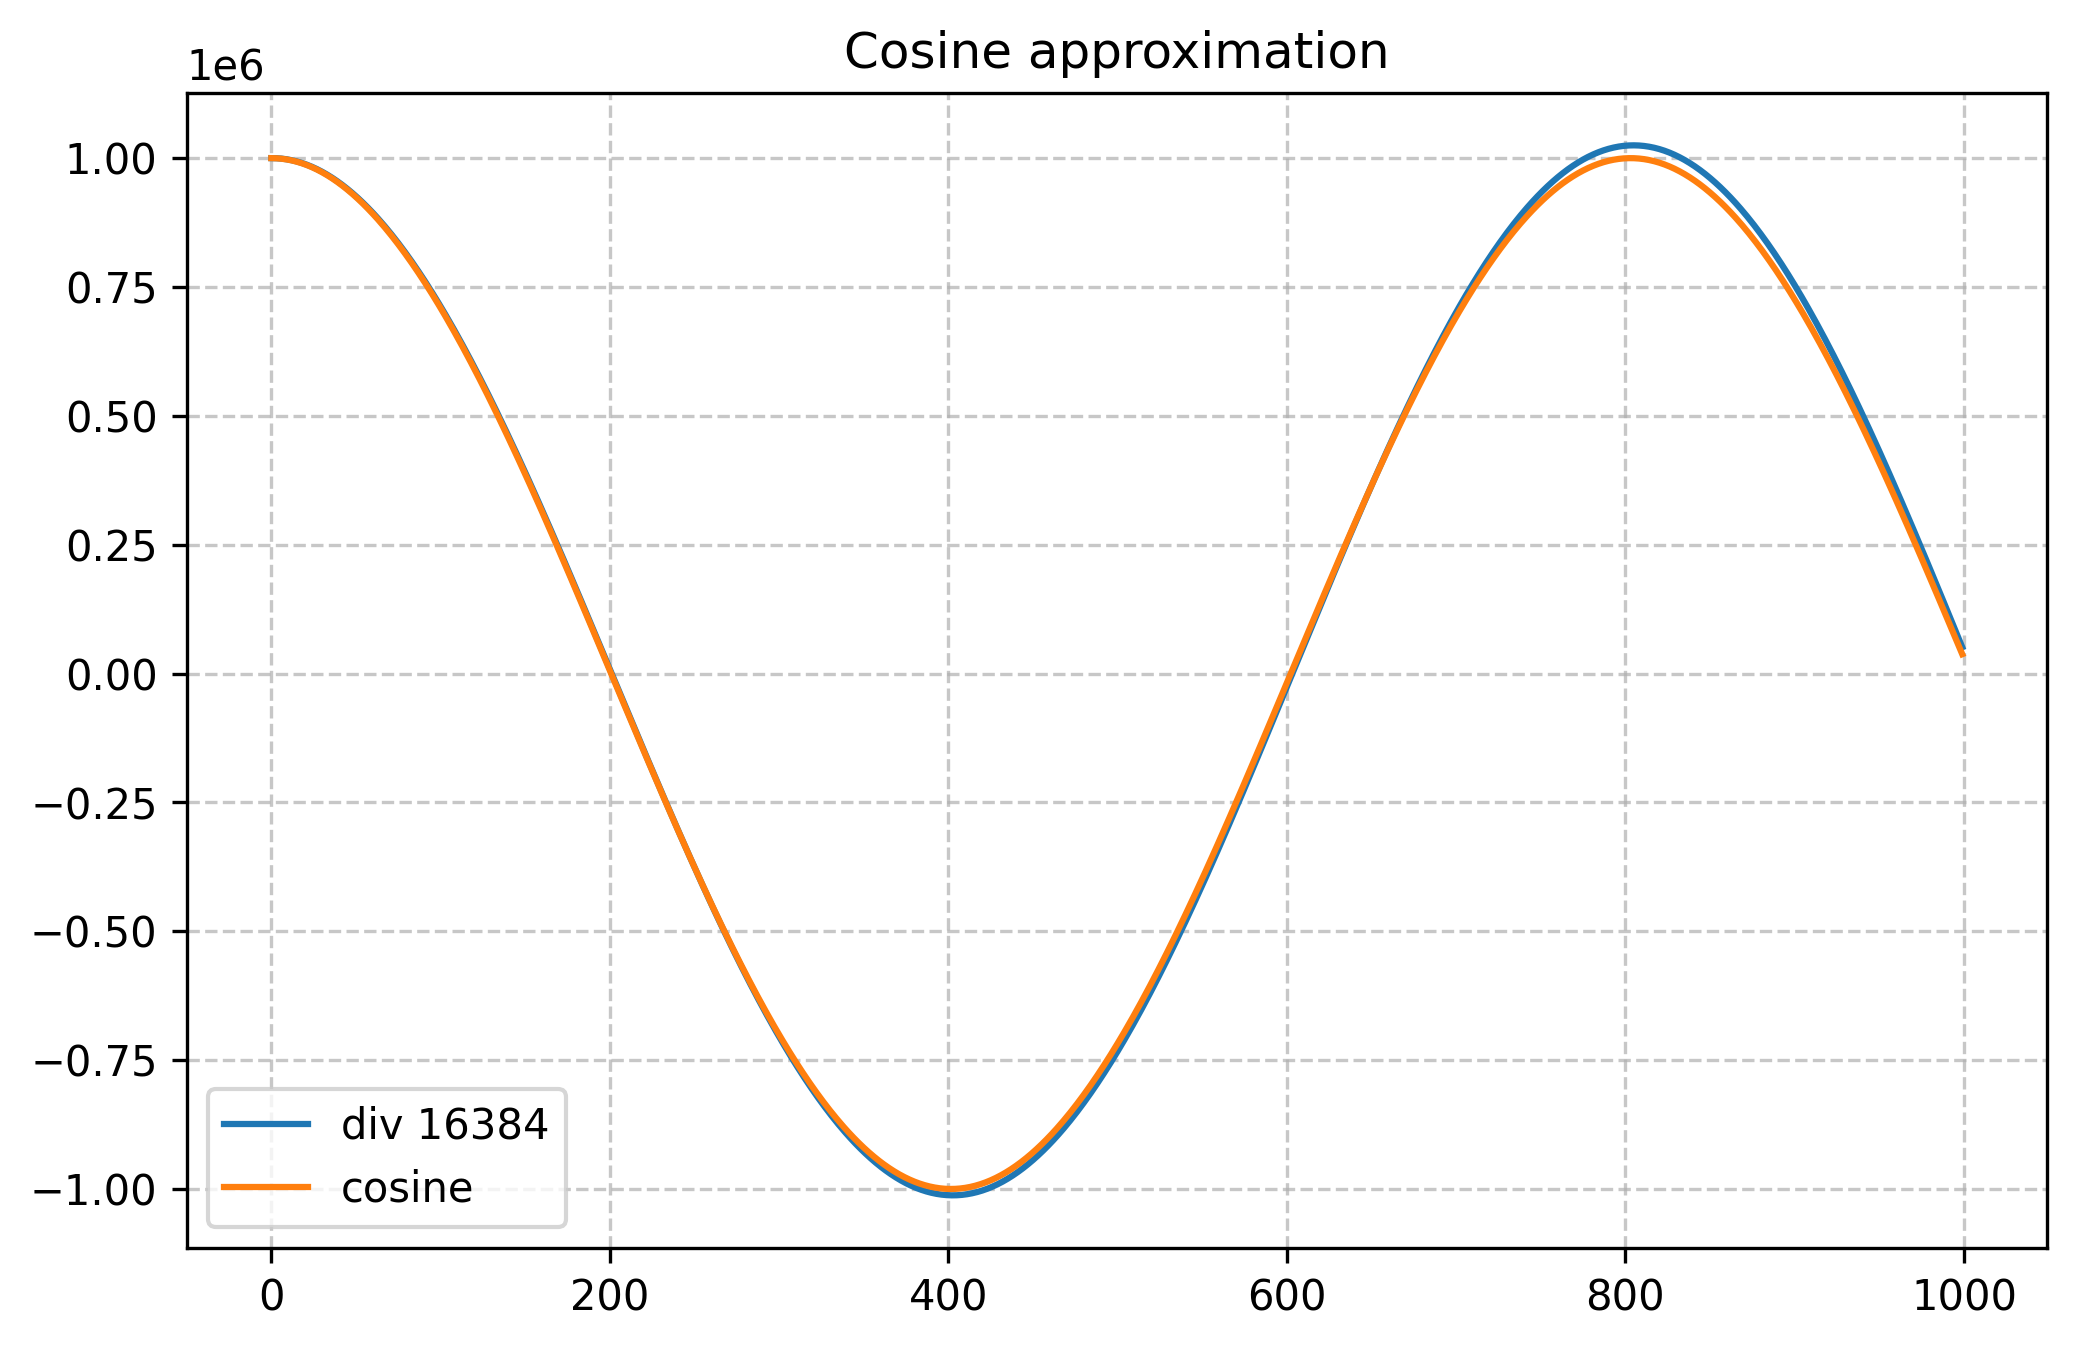
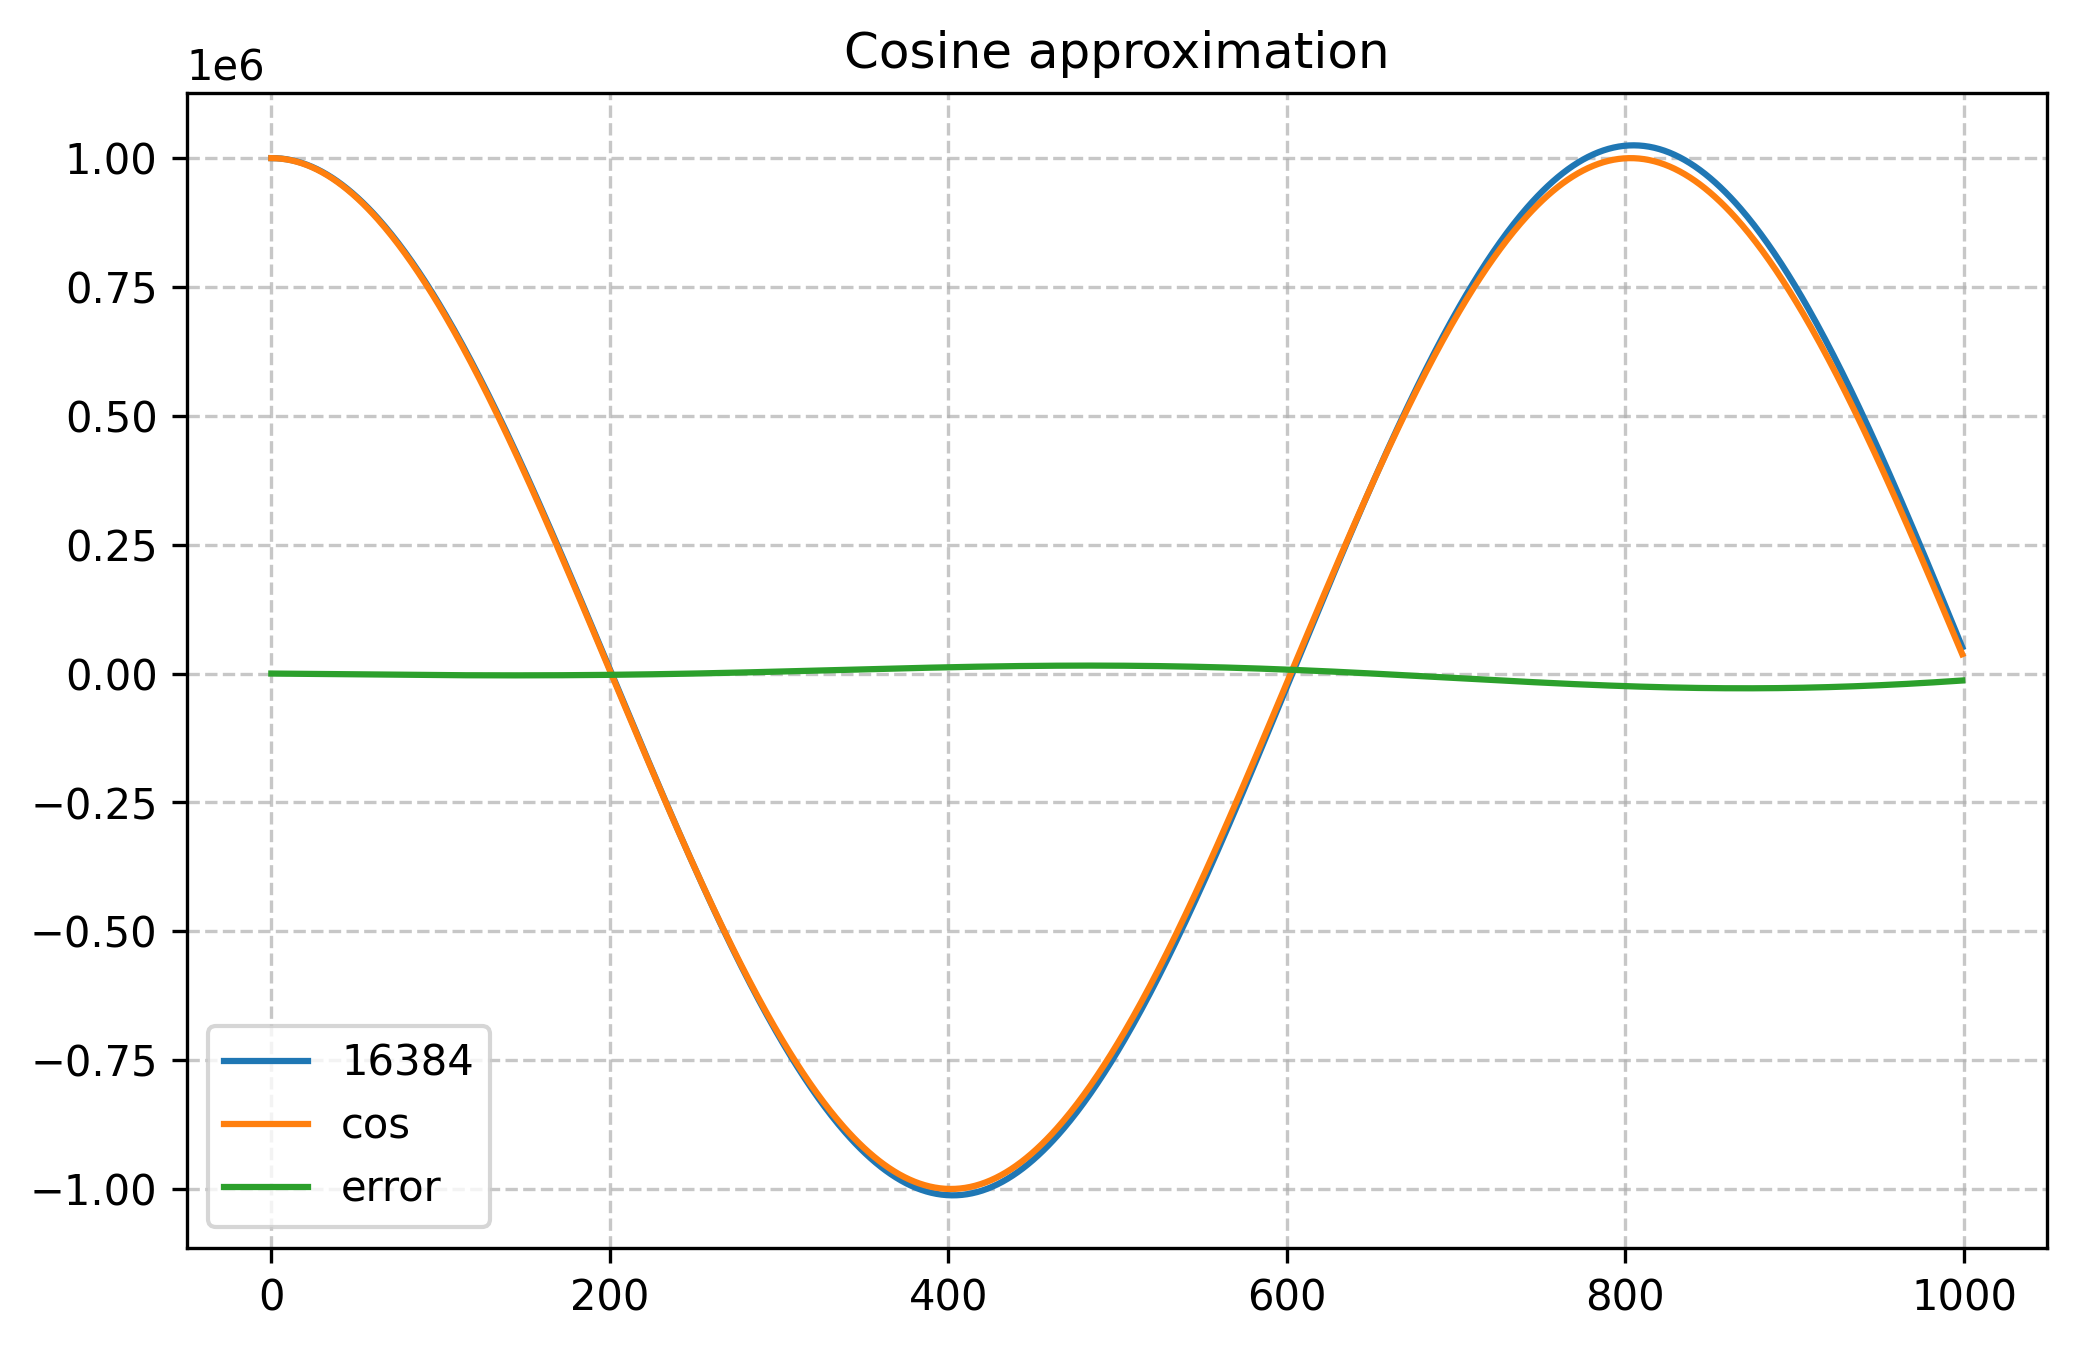
Error.

diff --git a/cosine.py b/cosine.py
@@ -13,10 +13,7 @@ def plot_numbers(numbers, dividers, nr_points, plot_points=False):
     plt.figure(figsize=(8, 5))  # Optional: Adjust the figure size
 
     for i, n in enumerate(numbers):
-        if dividers[i] == None:
-            label = "cosine"
-        else:
-            label = f"div %d" % dividers[i]
+        label = dividers[i]
             
         if plot_points:
             plt.plot(n[0:nr_points], marker="x", label=label)
@@ -45,7 +42,7 @@ def cosine(divider, nr_points):
     sprevi  = 1000000
     sprev2i = 0
     
-    cosine  = []
+    cosine  = np.empty(nr_points)
 
     cor         = sprevi
     prev_cor    = sprevi
@@ -55,7 +52,7 @@ def cosine(divider, nr_points):
         prev_cor    = cor
         cor         = sprevi - sprev2i
     
-        cosine.append(cor)
+        cosine[i] = cor
         #print(i, cor)
 
         if prev_cor >= 0 and cor <= 0 and first_zero == False:
@@ -79,14 +76,24 @@ if True:
     c2  = cosine(8192, nr_points)
     c3  = cosine(16384, nr_points)
 
-    x = np.linspace(0, 10.2 * 2 * np.pi, nr_points)  # 0 to 2π with 100 points
-    cos1 = np.cos(x) * 1000000           # Apply cosine function
-
     plot_numbers([ c1, c2, c3 ], [ 4096, 8192, 16384 ], nr_points )
+
+    x = np.linspace(0, 10.2 * 2 * np.pi, nr_points)
+    cos3 = np.cos(x) * 1000000           # Apply cosine function
+
+    diff3 = cos3 - c3
     
-    plot_numbers([ c3, cos1 ], [ 16384, None ], nr_points )
+    plot_numbers([ c3, cos3, diff3 ], [ 16384, "cos", "error" ], nr_points )
     
-    plot_numbers([ c3, cos1 ], [ 16384, None ], 1000 )
+    plot_numbers([ c3, cos3, diff3 ], [ 16384, "cos", "error" ], 1000 )
+
+    max_error_first_q = np.max(np.abs(diff3[0:201]))
+    print("Abs max error in first quadrant: %d" % max_error_first_q)
+    print("Rel max error over amplitidue in first quadrant: %f%%" % ((max_error_first_q/1000000)*100) )
+
+    inst_rel_max_error_first_q = np.max( np.abs(diff3[0:201]) / cos3[0:201] )
+    print("Instantaneous rel max error in first quadrant: %f%%" % (inst_rel_max_error_first_q * 100) )
+
 
 if True:
     c4  = cosine(128, 128)
@@ -94,7 +101,7 @@ if True:
     x = np.linspace(0, 128/72 * 2 * np.pi, 128)  # 0 to 2π with 100 points
     cos4 = np.cos(x) * 1000000           # Apply cosine function
 
-    plot_numbers([ c4, cos4 ], [ 128, None ], 40, True )
+    plot_numbers([ c4, cos4 ], [ 128, "cos" ], 40, True )
 
 
 if True:

diff --git a/README.md b/README.md
@@ -28,7 +28,9 @@ the first 1000 numbers:
 ![Plot for divider 16384 along with a cosine for 1000 points](cosine_plot_2.png)
 
 Not bad, especially in the first quadrant, before the approximation first
-goes through zero,.
+crosses through zero. The maximum error is 0.35% relative to the amplitude.
+(The maximum relative error per point is 42%, but that's when the function 
+is close to zero.)
 
 Here's what happens for a very low divider of 128. I only show the first 2
 quadrants, after that the approximation already starts to diverge way too much...
